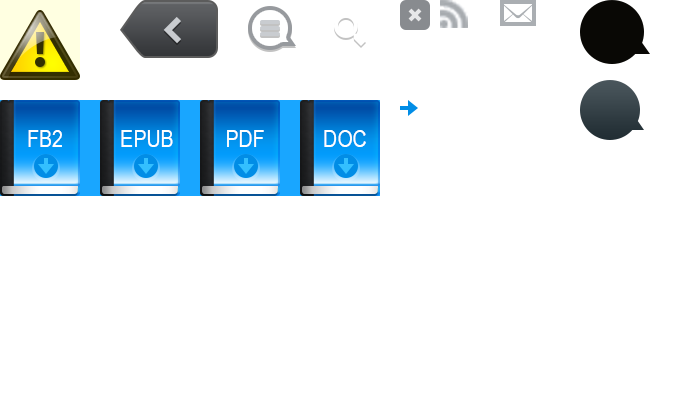
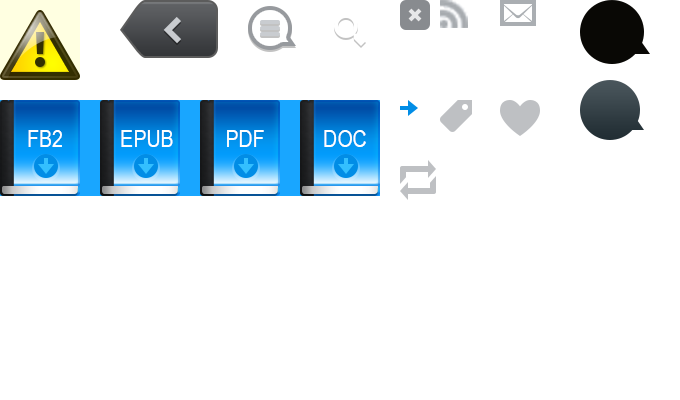
share dropdowns fixing

Changed region(s): [[0.6485, 0.24, 0.8029, 0.33], [0.5868, 0.39, 0.6485, 0.51]]

diff --git a/reader-reviews.html b/reader-reviews.html
@@ -117,10 +117,10 @@
         <nav class="mob hdr-menu">
         <p class="hdr-channels-caption hdr-label-4dd">Рассказать о сайте друзьям:</p>
         <ul class="hdr-dropdown">
-        <li class="hdr-channels-facebоok"><a href="http://www.facebook.com/share.php?u=http%3A%2F%2Fwww.sms-roman.ru%2Freader-reviews.html&amp;title=%C2%AB%D0%A0%D0%BE%D0%BC%D0%B0%D0%BD%20%D0%B2%20SMS%D0%BA%D0%B0%D1%85%20%3A-*%C2%BB%20%E2%80%94%20%D0%B2%D0%BE%D0%B7%D1%8C%D0%BC%D0%B8%20%D0%BA%D0%BD%D0%B8%D0%B6%D0%BA%D1%83%20%D0%BF%D0%BE%D1%87%D0%B8%D1%82%D0%B0%D1%82%D1%8C" target="_blank" class="png" title="Опубликовать в Фейсбуке">Фейсбук</a></li>
-        <li class="hdr-channels-twitter"><a href="http://twitter.com/home?status=%C2%AB%D0%A0%D0%BE%D0%BC%D0%B0%D0%BD%20%D0%B2%20SMS%D0%BA%D0%B0%D1%85%20%3A-*%C2%BB%20%E2%80%94%20%D0%B2%D0%BE%D0%B7%D1%8C%D0%BC%D0%B8%20%D0%BA%D0%BD%D0%B8%D0%B6%D0%BA%D1%83%20%D0%BF%D0%BE%D1%87%D0%B8%D1%82%D0%B0%D1%82%D1%8C+http%3A%2F%2Fwww.sms-roman.ru%2Freader-reviews.html" target="_blank" class="png" title="Опубликовать в Твиттере">Твиттер</a></li>
-        <li class="hdr-channels-google"><a href="https://plus.google.com/share?url=http%3A%2F%2Fwww.sms-roman.ru%2Freader-reviews.html" target="_blank" class="png" title="Опубликовать в Гугл+">Гугл+</a></li>
-        <li class="hdr-channels-mail"><a href="mailto:?subject=%D0%9A%D0%BD%D0%B8%D0%B6%D0%BA%D0%B0%20%C2%AB%D0%A0%D0%BE%D0%BC%D0%B0%D0%BD%20%D0%B2%20SMS%D0%BA%D0%B0%D1%85%20%3A-*%C2%BB.%20%D0%9C%D0%BD%D0%B5%20%D0%BF%D0%BE%D0%BD%D1%80%D0%B0%D0%B2%D0%B8%D0%BB%D0%B0%D1%81%D1%8C&amp;body=B%D0%BE%D0%B7%D1%8C%D0%BC%D0%B8%20%D0%BF%D0%BE%D1%87%D0%B8%D1%82%D0%B0%D1%82%D1%8C%0Ahttp%3A%2F%2Fwww.sms-roman.ru%2Freader-reviews.html" title="Отправить по почте">Эл. почта</a></li>
+        <li class="hdr-dropdown-facebоok"><i class="co png"><!-- Иконка --></i><a href="http://www.facebook.com/share.php?u=http%3A%2F%2Fwww.sms-roman.ru%2Freader-reviews.html&amp;title=%C2%AB%D0%A0%D0%BE%D0%BC%D0%B0%D0%BD%20%D0%B2%20SMS%D0%BA%D0%B0%D1%85%20%3A-*%C2%BB%20%E2%80%94%20%D0%B2%D0%BE%D0%B7%D1%8C%D0%BC%D0%B8%20%D0%BA%D0%BD%D0%B8%D0%B6%D0%BA%D1%83%20%D0%BF%D0%BE%D1%87%D0%B8%D1%82%D0%B0%D1%82%D1%8C" target="_blank" class="png" title="Опубликовать в Фейсбуке">Фейсбук</a></li>
+        <li class="hdr-dropdown-twitter"><i class="co png"><!-- Иконка --></i><a href="http://twitter.com/home?status=%C2%AB%D0%A0%D0%BE%D0%BC%D0%B0%D0%BD%20%D0%B2%20SMS%D0%BA%D0%B0%D1%85%20%3A-*%C2%BB%20%E2%80%94%20%D0%B2%D0%BE%D0%B7%D1%8C%D0%BC%D0%B8%20%D0%BA%D0%BD%D0%B8%D0%B6%D0%BA%D1%83%20%D0%BF%D0%BE%D1%87%D0%B8%D1%82%D0%B0%D1%82%D1%8C+http%3A%2F%2Fwww.sms-roman.ru%2Freader-reviews.html" target="_blank" class="png" title="Опубликовать в Твиттере">Твиттер</a></li>
+        <li class="hdr-dropdown-google"><i class="co png"><!-- Иконка --></i><a href="https://plus.google.com/share?url=http%3A%2F%2Fwww.sms-roman.ru%2Freader-reviews.html" target="_blank" class="png" title="Опубликовать в Гугл+">Гугл+</a></li>
+        <li class="hdr-dropdown-mail"><i class="co png"><!-- Иконка --></i><a href="mailto:?subject=%D0%9A%D0%BD%D0%B8%D0%B6%D0%BA%D0%B0%20%C2%AB%D0%A0%D0%BE%D0%BC%D0%B0%D0%BD%20%D0%B2%20SMS%D0%BA%D0%B0%D1%85%20%3A-*%C2%BB.%20%D0%9C%D0%BD%D0%B5%20%D0%BF%D0%BE%D0%BD%D1%80%D0%B0%D0%B2%D0%B8%D0%BB%D0%B0%D1%81%D1%8C&amp;body=B%D0%BE%D0%B7%D1%8C%D0%BC%D0%B8%20%D0%BF%D0%BE%D1%87%D0%B8%D1%82%D0%B0%D1%82%D1%8C%0Ahttp%3A%2F%2Fwww.sms-roman.ru%2Freader-reviews.html" title="Отправить по почте">Эл. почта</a></li>
         </ul>
         </nav>
     </header>

diff --git a/404.html b/404.html
@@ -117,10 +117,10 @@
         <nav class="mob hdr-menu">
         <p class="hdr-channels-caption hdr-label-4dd">Рассказать о сайте друзьям:</p>
         <ul class="hdr-dropdown">
-        <li class="hdr-channels-facebоok"><a href="http://www.facebook.com/share.php?u=http%3A%2F%2Fwww.sms-roman.ru%2Fbook-sample.html&amp;title=%C2%AB%D0%A0%D0%BE%D0%BC%D0%B0%D0%BD%20%D0%B2%20SMS%D0%BA%D0%B0%D1%85%20%3A-*%C2%BB%20%E2%80%94%20%D0%B2%D0%BE%D0%B7%D1%8C%D0%BC%D0%B8%20%D0%BA%D0%BD%D0%B8%D0%B6%D0%BA%D1%83%20%D0%BF%D0%BE%D1%87%D0%B8%D1%82%D0%B0%D1%82%D1%8C" target="_blank" class="png" title="Опубликовать в Фейсбуке">Фейсбук</a></li>
-        <li class="hdr-channels-twitter"><a href="http://twitter.com/home?status=%C2%AB%D0%A0%D0%BE%D0%BC%D0%B0%D0%BD%20%D0%B2%20SMS%D0%BA%D0%B0%D1%85%20%3A-*%C2%BB%20%E2%80%94%20%D0%B2%D0%BE%D0%B7%D1%8C%D0%BC%D0%B8%20%D0%BA%D0%BD%D0%B8%D0%B6%D0%BA%D1%83%20%D0%BF%D0%BE%D1%87%D0%B8%D1%82%D0%B0%D1%82%D1%8C+http%3A%2F%2Fwww.sms-roman.ru%2Fbook-sample.html" target="_blank" class="png" title="Опубликовать в Твиттере">Твиттер</a></li>
-        <li class="hdr-channels-google"><a href="https://plus.google.com/share?url=http%3A%2F%2Fwww.sms-roman.ru%2Fbook-sample.html" target="_blank" class="png" title="Опубликовать в Гугл+">Гугл+</a></li>
-        <li class="hdr-channels-mail"><a href="mailto:?subject=%D0%9A%D0%BD%D0%B8%D0%B6%D0%BA%D0%B0%20%C2%AB%D0%A0%D0%BE%D0%BC%D0%B0%D0%BD%20%D0%B2%20SMS%D0%BA%D0%B0%D1%85%20%3A-*%C2%BB.%20%D0%9C%D0%BD%D0%B5%20%D0%BF%D0%BE%D0%BD%D1%80%D0%B0%D0%B2%D0%B8%D0%BB%D0%B0%D1%81%D1%8C&amp;body=B%D0%BE%D0%B7%D1%8C%D0%BC%D0%B8%20%D0%BF%D0%BE%D1%87%D0%B8%D1%82%D0%B0%D1%82%D1%8C%0Ahttp%3A%2F%2Fwww.sms-roman.ru%2Fbook-sample.html" title="Отправить по почте">Эл. почта</a></li>
+        <li class="hdr-dropdown-facebоok"><i class="co png"><!-- Иконка --></i><a href="http://www.facebook.com/share.php?u=http%3A%2F%2Fwww.sms-roman.ru%2Fbook-sample.html&amp;title=%C2%AB%D0%A0%D0%BE%D0%BC%D0%B0%D0%BD%20%D0%B2%20SMS%D0%BA%D0%B0%D1%85%20%3A-*%C2%BB%20%E2%80%94%20%D0%B2%D0%BE%D0%B7%D1%8C%D0%BC%D0%B8%20%D0%BA%D0%BD%D0%B8%D0%B6%D0%BA%D1%83%20%D0%BF%D0%BE%D1%87%D0%B8%D1%82%D0%B0%D1%82%D1%8C" target="_blank" class="png" title="Опубликовать в Фейсбуке">Фейсбук</a></li>
+        <li class="hdr-dropdown-twitter"><i class="co png"><!-- Иконка --></i><a href="http://twitter.com/home?status=%C2%AB%D0%A0%D0%BE%D0%BC%D0%B0%D0%BD%20%D0%B2%20SMS%D0%BA%D0%B0%D1%85%20%3A-*%C2%BB%20%E2%80%94%20%D0%B2%D0%BE%D0%B7%D1%8C%D0%BC%D0%B8%20%D0%BA%D0%BD%D0%B8%D0%B6%D0%BA%D1%83%20%D0%BF%D0%BE%D1%87%D0%B8%D1%82%D0%B0%D1%82%D1%8C+http%3A%2F%2Fwww.sms-roman.ru%2Fbook-sample.html" target="_blank" class="png" title="Опубликовать в Твиттере">Твиттер</a></li>
+        <li class="hdr-dropdown-google"><i class="co png"><!-- Иконка --></i><a href="https://plus.google.com/share?url=http%3A%2F%2Fwww.sms-roman.ru%2Fbook-sample.html" target="_blank" class="png" title="Опубликовать в Гугл+">Гугл+</a></li>
+        <li class="hdr-dropdown-mail"><i class="co png"><!-- Иконка --></i><a href="mailto:?subject=%D0%9A%D0%BD%D0%B8%D0%B6%D0%BA%D0%B0%20%C2%AB%D0%A0%D0%BE%D0%BC%D0%B0%D0%BD%20%D0%B2%20SMS%D0%BA%D0%B0%D1%85%20%3A-*%C2%BB.%20%D0%9C%D0%BD%D0%B5%20%D0%BF%D0%BE%D0%BD%D1%80%D0%B0%D0%B2%D0%B8%D0%BB%D0%B0%D1%81%D1%8C&amp;body=B%D0%BE%D0%B7%D1%8C%D0%BC%D0%B8%20%D0%BF%D0%BE%D1%87%D0%B8%D1%82%D0%B0%D1%82%D1%8C%0Ahttp%3A%2F%2Fwww.sms-roman.ru%2Fbook-sample.html" title="Отправить по почте">Эл. почта</a></li>
         </ul>
         </nav>
     </header>

diff --git a/book-author.html b/book-author.html
@@ -117,10 +117,10 @@
         <nav class="mob hdr-menu">
         <p class="hdr-channels-caption hdr-label-4dd">Рассказать о сайте друзьям:</p>
         <ul class="hdr-dropdown">
-        <li class="hdr-channels-facebоok"><a href="http://www.facebook.com/share.php?u=http%3A%2F%2Fwww.sms-roman.ru%2Fbook-author.html&amp;title=%C2%AB%D0%A0%D0%BE%D0%BC%D0%B0%D0%BD%20%D0%B2%20SMS%D0%BA%D0%B0%D1%85%20%3A-*%C2%BB%20%E2%80%94%20%D0%B2%D0%BE%D0%B7%D1%8C%D0%BC%D0%B8%20%D0%BA%D0%BD%D0%B8%D0%B6%D0%BA%D1%83%20%D0%BF%D0%BE%D1%87%D0%B8%D1%82%D0%B0%D1%82%D1%8C" target="_blank" class="png" title="Опубликовать в Фейсбуке">Фейсбук</a></li>
-        <li class="hdr-channels-twitter"><a href="http://twitter.com/home?status=%C2%AB%D0%A0%D0%BE%D0%BC%D0%B0%D0%BD%20%D0%B2%20SMS%D0%BA%D0%B0%D1%85%20%3A-*%C2%BB%20%E2%80%94%20%D0%B2%D0%BE%D0%B7%D1%8C%D0%BC%D0%B8%20%D0%BA%D0%BD%D0%B8%D0%B6%D0%BA%D1%83%20%D0%BF%D0%BE%D1%87%D0%B8%D1%82%D0%B0%D1%82%D1%8C+http%3A%2F%2Fwww.sms-roman.ru%2Fbook-author.html" target="_blank" class="png" title="Опубликовать в Твиттере">Твиттер</a></li>
-        <li class="hdr-channels-google"><a href="https://plus.google.com/share?url=http%3A%2F%2Fwww.sms-roman.ru%2Fbook-author.html" target="_blank" class="png" title="Опубликовать в Гугл+">Гугл+</a></li>
-        <li class="hdr-channels-mail"><a href="mailto:?subject=%D0%9A%D0%BD%D0%B8%D0%B6%D0%BA%D0%B0%20%C2%AB%D0%A0%D0%BE%D0%BC%D0%B0%D0%BD%20%D0%B2%20SMS%D0%BA%D0%B0%D1%85%20%3A-*%C2%BB.%20%D0%9C%D0%BD%D0%B5%20%D0%BF%D0%BE%D0%BD%D1%80%D0%B0%D0%B2%D0%B8%D0%BB%D0%B0%D1%81%D1%8C&amp;body=B%D0%BE%D0%B7%D1%8C%D0%BC%D0%B8%20%D0%BF%D0%BE%D1%87%D0%B8%D1%82%D0%B0%D1%82%D1%8C%0Ahttp%3A%2F%2Fwww.sms-roman.ru%2Fbook-author.html" title="Отправить по почте">Эл. почта</a></li>
+        <li class="hdr-dropdown-facebоok"><i class="co png"><!-- Иконка --></i><a href="http://www.facebook.com/share.php?u=http%3A%2F%2Fwww.sms-roman.ru%2Fbook-author.html&amp;title=%C2%AB%D0%A0%D0%BE%D0%BC%D0%B0%D0%BD%20%D0%B2%20SMS%D0%BA%D0%B0%D1%85%20%3A-*%C2%BB%20%E2%80%94%20%D0%B2%D0%BE%D0%B7%D1%8C%D0%BC%D0%B8%20%D0%BA%D0%BD%D0%B8%D0%B6%D0%BA%D1%83%20%D0%BF%D0%BE%D1%87%D0%B8%D1%82%D0%B0%D1%82%D1%8C" target="_blank" class="png" title="Опубликовать в Фейсбуке">Фейсбук</a></li>
+        <li class="hdr-dropdown-twitter"><i class="co png"><!-- Иконка --></i><a href="http://twitter.com/home?status=%C2%AB%D0%A0%D0%BE%D0%BC%D0%B0%D0%BD%20%D0%B2%20SMS%D0%BA%D0%B0%D1%85%20%3A-*%C2%BB%20%E2%80%94%20%D0%B2%D0%BE%D0%B7%D1%8C%D0%BC%D0%B8%20%D0%BA%D0%BD%D0%B8%D0%B6%D0%BA%D1%83%20%D0%BF%D0%BE%D1%87%D0%B8%D1%82%D0%B0%D1%82%D1%8C+http%3A%2F%2Fwww.sms-roman.ru%2Fbook-author.html" target="_blank" class="png" title="Опубликовать в Твиттере">Твиттер</a></li>
+        <li class="hdr-dropdown-google"><i class="co png"><!-- Иконка --></i><a href="https://plus.google.com/share?url=http%3A%2F%2Fwww.sms-roman.ru%2Fbook-author.html" target="_blank" class="png" title="Опубликовать в Гугл+">Гугл+</a></li>
+        <li class="hdr-dropdown-mail"><i class="co png"><!-- Иконка --></i><a href="mailto:?subject=%D0%9A%D0%BD%D0%B8%D0%B6%D0%BA%D0%B0%20%C2%AB%D0%A0%D0%BE%D0%BC%D0%B0%D0%BD%20%D0%B2%20SMS%D0%BA%D0%B0%D1%85%20%3A-*%C2%BB.%20%D0%9C%D0%BD%D0%B5%20%D0%BF%D0%BE%D0%BD%D1%80%D0%B0%D0%B2%D0%B8%D0%BB%D0%B0%D1%81%D1%8C&amp;body=B%D0%BE%D0%B7%D1%8C%D0%BC%D0%B8%20%D0%BF%D0%BE%D1%87%D0%B8%D1%82%D0%B0%D1%82%D1%8C%0Ahttp%3A%2F%2Fwww.sms-roman.ru%2Fbook-author.html" title="Отправить по почте">Эл. почта</a></li>
         </ul>
         </nav>
     </header>

diff --git a/book-sample.html b/book-sample.html
@@ -117,10 +117,10 @@
         <nav class="mob hdr-menu">
         <p class="hdr-channels-caption hdr-label-4dd">Рассказать о сайте друзьям:</p>
         <ul class="hdr-dropdown">
-        <li class="hdr-channels-facebоok"><a href="http://www.facebook.com/share.php?u=http%3A%2F%2Fwww.sms-roman.ru%2Fbook-sample.html&amp;title=%C2%AB%D0%A0%D0%BE%D0%BC%D0%B0%D0%BD%20%D0%B2%20SMS%D0%BA%D0%B0%D1%85%20%3A-*%C2%BB%20%E2%80%94%20%D0%B2%D0%BE%D0%B7%D1%8C%D0%BC%D0%B8%20%D0%BA%D0%BD%D0%B8%D0%B6%D0%BA%D1%83%20%D0%BF%D0%BE%D1%87%D0%B8%D1%82%D0%B0%D1%82%D1%8C" target="_blank" class="png" title="Опубликовать в Фейсбуке">Фейсбук</a></li>
-        <li class="hdr-channels-twitter"><a href="http://twitter.com/home?status=%C2%AB%D0%A0%D0%BE%D0%BC%D0%B0%D0%BD%20%D0%B2%20SMS%D0%BA%D0%B0%D1%85%20%3A-*%C2%BB%20%E2%80%94%20%D0%B2%D0%BE%D0%B7%D1%8C%D0%BC%D0%B8%20%D0%BA%D0%BD%D0%B8%D0%B6%D0%BA%D1%83%20%D0%BF%D0%BE%D1%87%D0%B8%D1%82%D0%B0%D1%82%D1%8C+http%3A%2F%2Fwww.sms-roman.ru%2Fbook-sample.html" target="_blank" class="png" title="Опубликовать в Твиттере">Твиттер</a></li>
-        <li class="hdr-channels-google"><a href="https://plus.google.com/share?url=http%3A%2F%2Fwww.sms-roman.ru%2Fbook-sample.html" target="_blank" class="png" title="Опубликовать в Гугл+">Гугл+</a></li>
-        <li class="hdr-channels-mail"><a href="mailto:?subject=%D0%9A%D0%BD%D0%B8%D0%B6%D0%BA%D0%B0%20%C2%AB%D0%A0%D0%BE%D0%BC%D0%B0%D0%BD%20%D0%B2%20SMS%D0%BA%D0%B0%D1%85%20%3A-*%C2%BB.%20%D0%9C%D0%BD%D0%B5%20%D0%BF%D0%BE%D0%BD%D1%80%D0%B0%D0%B2%D0%B8%D0%BB%D0%B0%D1%81%D1%8C&amp;body=B%D0%BE%D0%B7%D1%8C%D0%BC%D0%B8%20%D0%BF%D0%BE%D1%87%D0%B8%D1%82%D0%B0%D1%82%D1%8C%0Ahttp%3A%2F%2Fwww.sms-roman.ru%2Fbook-sample.html" title="Отправить по почте">Эл. почта</a></li>
+        <li class="hdr-dropdown-facebоok"><i class="co png"><!-- Иконка --></i><a href="http://www.facebook.com/share.php?u=http%3A%2F%2Fwww.sms-roman.ru%2Fbook-sample.html&amp;title=%C2%AB%D0%A0%D0%BE%D0%BC%D0%B0%D0%BD%20%D0%B2%20SMS%D0%BA%D0%B0%D1%85%20%3A-*%C2%BB%20%E2%80%94%20%D0%B2%D0%BE%D0%B7%D1%8C%D0%BC%D0%B8%20%D0%BA%D0%BD%D0%B8%D0%B6%D0%BA%D1%83%20%D0%BF%D0%BE%D1%87%D0%B8%D1%82%D0%B0%D1%82%D1%8C" target="_blank" class="png" title="Опубликовать в Фейсбуке">Фейсбук</a></li>
+        <li class="hdr-dropdown-twitter"><i class="co png"><!-- Иконка --></i><a href="http://twitter.com/home?status=%C2%AB%D0%A0%D0%BE%D0%BC%D0%B0%D0%BD%20%D0%B2%20SMS%D0%BA%D0%B0%D1%85%20%3A-*%C2%BB%20%E2%80%94%20%D0%B2%D0%BE%D0%B7%D1%8C%D0%BC%D0%B8%20%D0%BA%D0%BD%D0%B8%D0%B6%D0%BA%D1%83%20%D0%BF%D0%BE%D1%87%D0%B8%D1%82%D0%B0%D1%82%D1%8C+http%3A%2F%2Fwww.sms-roman.ru%2Fbook-sample.html" target="_blank" class="png" title="Опубликовать в Твиттере">Твиттер</a></li>
+        <li class="hdr-dropdown-google"><i class="co png"><!-- Иконка --></i><a href="https://plus.google.com/share?url=http%3A%2F%2Fwww.sms-roman.ru%2Fbook-sample.html" target="_blank" class="png" title="Опубликовать в Гугл+">Гугл+</a></li>
+        <li class="hdr-dropdown-mail"><i class="co png"><!-- Иконка --></i><a href="mailto:?subject=%D0%9A%D0%BD%D0%B8%D0%B6%D0%BA%D0%B0%20%C2%AB%D0%A0%D0%BE%D0%BC%D0%B0%D0%BD%20%D0%B2%20SMS%D0%BA%D0%B0%D1%85%20%3A-*%C2%BB.%20%D0%9C%D0%BD%D0%B5%20%D0%BF%D0%BE%D0%BD%D1%80%D0%B0%D0%B2%D0%B8%D0%BB%D0%B0%D1%81%D1%8C&amp;body=B%D0%BE%D0%B7%D1%8C%D0%BC%D0%B8%20%D0%BF%D0%BE%D1%87%D0%B8%D1%82%D0%B0%D1%82%D1%8C%0Ahttp%3A%2F%2Fwww.sms-roman.ru%2Fbook-sample.html" title="Отправить по почте">Эл. почта</a></li>
         </ul>
         </nav>
     </header>

diff --git a/ipad-ibooks-ibookstore.html b/ipad-ibooks-ibookstore.html
@@ -116,10 +116,10 @@
         <nav class="mob hdr-menu">
         <p class="hdr-channels-caption hdr-label-4dd">Рассказать о сайте друзьям:</p>
         <ul class="hdr-dropdown">
-        <li class="hdr-channels-facebоok"><a href="http://www.facebook.com/share.php?u=http%3A%2F%2Fwww.sms-roman.ru%2Fbook-sample.html&amp;title=%C2%AB%D0%A0%D0%BE%D0%BC%D0%B0%D0%BD%20%D0%B2%20SMS%D0%BA%D0%B0%D1%85%20%3A-*%C2%BB%20%E2%80%94%20%D0%B2%D0%BE%D0%B7%D1%8C%D0%BC%D0%B8%20%D0%BA%D0%BD%D0%B8%D0%B6%D0%BA%D1%83%20%D0%BF%D0%BE%D1%87%D0%B8%D1%82%D0%B0%D1%82%D1%8C" target="_blank" class="png" title="Опубликовать в Фейсбуке">Фейсбук</a></li>
-        <li class="hdr-channels-twitter"><a href="http://twitter.com/home?status=%C2%AB%D0%A0%D0%BE%D0%BC%D0%B0%D0%BD%20%D0%B2%20SMS%D0%BA%D0%B0%D1%85%20%3A-*%C2%BB%20%E2%80%94%20%D0%B2%D0%BE%D0%B7%D1%8C%D0%BC%D0%B8%20%D0%BA%D0%BD%D0%B8%D0%B6%D0%BA%D1%83%20%D0%BF%D0%BE%D1%87%D0%B8%D1%82%D0%B0%D1%82%D1%8C+http%3A%2F%2Fwww.sms-roman.ru%2Fbook-sample.html" target="_blank" class="png" title="Опубликовать в Твиттере">Твиттер</a></li>
-        <li class="hdr-channels-google"><a href="https://plus.google.com/share?url=http%3A%2F%2Fwww.sms-roman.ru%2Fbook-sample.html" target="_blank" class="png" title="Опубликовать в Гугл+">Гугл+</a></li>
-        <li class="hdr-channels-mail"><a href="mailto:?subject=%D0%9A%D0%BD%D0%B8%D0%B6%D0%BA%D0%B0%20%C2%AB%D0%A0%D0%BE%D0%BC%D0%B0%D0%BD%20%D0%B2%20SMS%D0%BA%D0%B0%D1%85%20%3A-*%C2%BB.%20%D0%9C%D0%BD%D0%B5%20%D0%BF%D0%BE%D0%BD%D1%80%D0%B0%D0%B2%D0%B8%D0%BB%D0%B0%D1%81%D1%8C&amp;body=B%D0%BE%D0%B7%D1%8C%D0%BC%D0%B8%20%D0%BF%D0%BE%D1%87%D0%B8%D1%82%D0%B0%D1%82%D1%8C%0Ahttp%3A%2F%2Fwww.sms-roman.ru%2Fbook-sample.html" title="Отправить по почте">Эл. почта</a></li>
+        <li class="hdr-dropdown-facebоok"><i class="co png"><!-- Иконка --></i><a href="http://www.facebook.com/share.php?u=http%3A%2F%2Fwww.sms-roman.ru%2Fbook-sample.html&amp;title=%C2%AB%D0%A0%D0%BE%D0%BC%D0%B0%D0%BD%20%D0%B2%20SMS%D0%BA%D0%B0%D1%85%20%3A-*%C2%BB%20%E2%80%94%20%D0%B2%D0%BE%D0%B7%D1%8C%D0%BC%D0%B8%20%D0%BA%D0%BD%D0%B8%D0%B6%D0%BA%D1%83%20%D0%BF%D0%BE%D1%87%D0%B8%D1%82%D0%B0%D1%82%D1%8C" target="_blank" class="png" title="Опубликовать в Фейсбуке">Фейсбук</a></li>
+        <li class="hdr-dropdown-twitter"><i class="co png"><!-- Иконка --></i><a href="http://twitter.com/home?status=%C2%AB%D0%A0%D0%BE%D0%BC%D0%B0%D0%BD%20%D0%B2%20SMS%D0%BA%D0%B0%D1%85%20%3A-*%C2%BB%20%E2%80%94%20%D0%B2%D0%BE%D0%B7%D1%8C%D0%BC%D0%B8%20%D0%BA%D0%BD%D0%B8%D0%B6%D0%BA%D1%83%20%D0%BF%D0%BE%D1%87%D0%B8%D1%82%D0%B0%D1%82%D1%8C+http%3A%2F%2Fwww.sms-roman.ru%2Fbook-sample.html" target="_blank" class="png" title="Опубликовать в Твиттере">Твиттер</a></li>
+        <li class="hdr-dropdown-google"><i class="co png"><!-- Иконка --></i><a href="https://plus.google.com/share?url=http%3A%2F%2Fwww.sms-roman.ru%2Fbook-sample.html" target="_blank" class="png" title="Опубликовать в Гугл+">Гугл+</a></li>
+        <li class="hdr-dropdown-mail"><i class="co png"><!-- Иконка --></i><a href="mailto:?subject=%D0%9A%D0%BD%D0%B8%D0%B6%D0%BA%D0%B0%20%C2%AB%D0%A0%D0%BE%D0%BC%D0%B0%D0%BD%20%D0%B2%20SMS%D0%BA%D0%B0%D1%85%20%3A-*%C2%BB.%20%D0%9C%D0%BD%D0%B5%20%D0%BF%D0%BE%D0%BD%D1%80%D0%B0%D0%B2%D0%B8%D0%BB%D0%B0%D1%81%D1%8C&amp;body=B%D0%BE%D0%B7%D1%8C%D0%BC%D0%B8%20%D0%BF%D0%BE%D1%87%D0%B8%D1%82%D0%B0%D1%82%D1%8C%0Ahttp%3A%2F%2Fwww.sms-roman.ru%2Fbook-sample.html" title="Отправить по почте">Эл. почта</a></li>
         </ul>
         </nav>
     </header>

diff --git a/search/index.htm b/search/index.htm
@@ -117,10 +117,10 @@
         <nav class="mob hdr-menu">
         <p class="hdr-channels-caption hdr-label-4dd">Рассказать о сайте друзьям:</p>
         <ul class="hdr-dropdown">
-        <li class="hdr-channels-facebоok"><a href="http://www.facebook.com/share.php?u=http%3A%2F%2Fwww.sms-roman.ru&amp;title=%C2%AB%D0%A0%D0%BE%D0%BC%D0%B0%D0%BD%20%D0%B2%20SMS%D0%BA%D0%B0%D1%85%20%3A-*%C2%BB%20%E2%80%94%20%D0%B2%D0%BE%D0%B7%D1%8C%D0%BC%D0%B8%20%D0%BA%D0%BD%D0%B8%D0%B6%D0%BA%D1%83%20%D0%BF%D0%BE%D1%87%D0%B8%D1%82%D0%B0%D1%82%D1%8C" target="_blank" class="png" title="Опубликовать в Фейсбуке">Фейсбук</a></li>
-        <li class="hdr-channels-twitter"><a href="http://twitter.com/home?status=%C2%AB%D0%A0%D0%BE%D0%BC%D0%B0%D0%BD%20%D0%B2%20SMS%D0%BA%D0%B0%D1%85%20%3A-*%C2%BB%20%E2%80%94%20%D0%B2%D0%BE%D0%B7%D1%8C%D0%BC%D0%B8%20%D0%BA%D0%BD%D0%B8%D0%B6%D0%BA%D1%83%20%D0%BF%D0%BE%D1%87%D0%B8%D1%82%D0%B0%D1%82%D1%8C+http%3A%2F%2Fwww.sms-roman.ru" target="_blank" class="png" title="Опубликовать в Твиттере">Твиттер</a></li>
-        <li class="hdr-channels-google"><a href="https://plus.google.com/share?url=http%3A%2F%2Fwww.sms-roman.ru" target="_blank" class="png" title="Опубликовать в Гугл+">Гугл+</a></li>
-        <li class="hdr-channels-mail"><a href="mailto:?subject=%D0%9A%D0%BD%D0%B8%D0%B6%D0%BA%D0%B0%20%C2%AB%D0%A0%D0%BE%D0%BC%D0%B0%D0%BD%20%D0%B2%20SMS%D0%BA%D0%B0%D1%85%20%3A-*%C2%BB.%20%D0%9C%D0%BD%D0%B5%20%D0%BF%D0%BE%D0%BD%D1%80%D0%B0%D0%B2%D0%B8%D0%BB%D0%B0%D1%81%D1%8C&amp;body=B%D0%BE%D0%B7%D1%8C%D0%BC%D0%B8%20%D0%BF%D0%BE%D1%87%D0%B8%D1%82%D0%B0%D1%82%D1%8C%0Ahttp%3A%2F%2Fwww.sms-roman.ru" title="Отправить по почте">Эл. почта</a></li>
+        <li class="hdr-dropdown-facebоok"><i class="co png"><!-- Иконка --></i><a href="http://www.facebook.com/share.php?u=http%3A%2F%2Fwww.sms-roman.ru&amp;title=%C2%AB%D0%A0%D0%BE%D0%BC%D0%B0%D0%BD%20%D0%B2%20SMS%D0%BA%D0%B0%D1%85%20%3A-*%C2%BB%20%E2%80%94%20%D0%B2%D0%BE%D0%B7%D1%8C%D0%BC%D0%B8%20%D0%BA%D0%BD%D0%B8%D0%B6%D0%BA%D1%83%20%D0%BF%D0%BE%D1%87%D0%B8%D1%82%D0%B0%D1%82%D1%8C" target="_blank" class="png" title="Опубликовать в Фейсбуке">Фейсбук</a></li>
+        <li class="hdr-dropdown-twitter"><i class="co png"><!-- Иконка --></i><a href="http://twitter.com/home?status=%C2%AB%D0%A0%D0%BE%D0%BC%D0%B0%D0%BD%20%D0%B2%20SMS%D0%BA%D0%B0%D1%85%20%3A-*%C2%BB%20%E2%80%94%20%D0%B2%D0%BE%D0%B7%D1%8C%D0%BC%D0%B8%20%D0%BA%D0%BD%D0%B8%D0%B6%D0%BA%D1%83%20%D0%BF%D0%BE%D1%87%D0%B8%D1%82%D0%B0%D1%82%D1%8C+http%3A%2F%2Fwww.sms-roman.ru" target="_blank" class="png" title="Опубликовать в Твиттере">Твиттер</a></li>
+        <li class="hdr-dropdown-google"><i class="co png"><!-- Иконка --></i><a href="https://plus.google.com/share?url=http%3A%2F%2Fwww.sms-roman.ru" target="_blank" class="png" title="Опубликовать в Гугл+">Гугл+</a></li>
+        <li class="hdr-dropdown-mail"><i class="co png"><!-- Иконка --></i><a href="mailto:?subject=%D0%9A%D0%BD%D0%B8%D0%B6%D0%BA%D0%B0%20%C2%AB%D0%A0%D0%BE%D0%BC%D0%B0%D0%BD%20%D0%B2%20SMS%D0%BA%D0%B0%D1%85%20%3A-*%C2%BB.%20%D0%9C%D0%BD%D0%B5%20%D0%BF%D0%BE%D0%BD%D1%80%D0%B0%D0%B2%D0%B8%D0%BB%D0%B0%D1%81%D1%8C&amp;body=B%D0%BE%D0%B7%D1%8C%D0%BC%D0%B8%20%D0%BF%D0%BE%D1%87%D0%B8%D1%82%D0%B0%D1%82%D1%8C%0Ahttp%3A%2F%2Fwww.sms-roman.ru" title="Отправить по почте">Эл. почта</a></li>
         </ul>
         </nav>
     </header>

diff --git a/a/css/styles.css b/a/css/styles.css
@@ -112,7 +112,7 @@ H1,H2,H3,H4,H5{margin:0;text-rendering:optimizelegibility;}H1 SMALL,H2 SMALL,H3 
 H1{color:#000000;font:normal 247.05882352941177% 'Helvetica Neue',Helvetica,Roboto,Arial,sans-serif;letter-spacing:-0.04em;line-height:1.1428571428571428em;padding-top:0.7619047619047619em;padding-bottom:0.5em;}
 H1+P:not([class]),HGROUP+P:not([class]),.doc-main>HEADER+P:not([class]),P.lead{font-weight:bold;}
 HEADER H1{padding-bottom:0;}HEADER H1+DL,HEADER H1+H2,HEADER H1+OL,HEADER H1+P,HEADER H1+UL{margin-top:-0.17647058823529413em;}
-H2{font:200 152.94117647058823% 'HelveticaNeueLight','HelveticaNeue-Light','Helvetica Neue Light','HelveticaNeue','Helvetica Neue',Helvetica,Roboto,Arial,sans-serif;letter-spacing:-0.03em;line-height:0.9230769230769231em;padding-top:0.8076923076923077em;padding-bottom:0.11538461538461539em;}
+.post H1,H2{font:200 152.94117647058823% 'HelveticaNeueLight','HelveticaNeue-Light','Helvetica Neue Light','HelveticaNeue','Helvetica Neue',Helvetica,Roboto,Arial,sans-serif;letter-spacing:-0.03em;line-height:0.9230769230769231em;padding-top:0.8076923076923077em;padding-bottom:0.11538461538461539em;}
 H1+H2,HGROUP H2,.deck{padding-top:0;}
 H3,.h3,H4,.h4,H5{font-size:100%;}
 H3{padding-top:1.411764705882353em;}

diff --git a/a/less/_stock/styles.css b/a/less/_stock/styles.css
@@ -1,7 +1,7 @@
-/*	CSS Reset */
+/*  CSS Reset */
 @import '/a/css/01-normalize.css';
 
-/*  Variables, mixins, sprites */
+/*  Variables and mixins — Custom colors, font-sizes, etc */
 @import '/a/css/02-variables.css';
 @import '/a/css/02-mixins.css';
 @import '/a/css/02-sprites.css';
@@ -23,7 +23,7 @@
 @import '/a/css/11-boxes.css';
 @import '/a/css/12-tables.css';
 
-/* Forms and system responce */
+/* Forms and system response */
 @import '/a/css/13-forms.css';
 @import '/a/css/14-buttons.css';
 @import '/a/css/15-alerts.css';
@@ -43,6 +43,3 @@
 
 /* Print */
 @import '/a/css/19-print.css';
-
-/* Optional - JQM */
-@import '/a/css/20-jqm.css';
